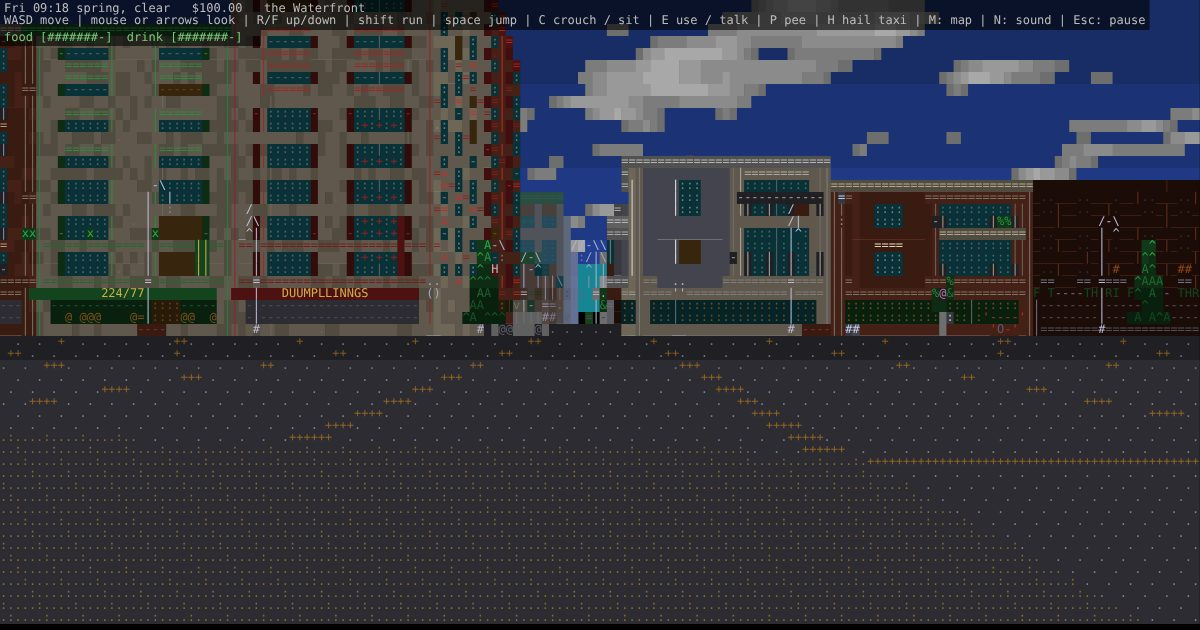
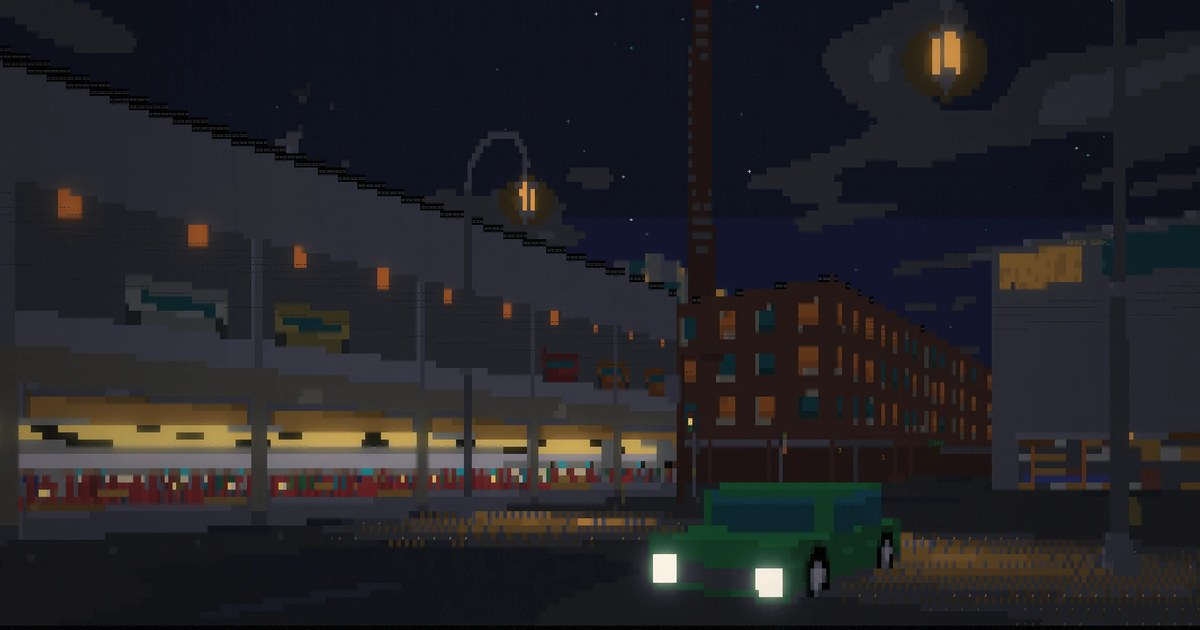
ASCII City: new link preview image and description

diff --git a/ascii-city.html b/ascii-city.html
@@ -13,19 +13,19 @@
   <link rel="icon" type="image/png" sizes="16x16" href="images/favicon-16x16.png">
   <link rel="manifest" href="ascii-city.webmanifest">
   <title>ASCII City</title>
-  <meta name="description" content="A whole city drawn in text characters. Wander the streets, take courier jobs, drive taxis and get lost.">
+  <meta name="description" content="A 3D city drawn entirely in ASCII. Ride the train, drive at night, skate, fish, run courier jobs or just wander. Friends can join.">
   <meta property="og:type" content="website">
   <meta property="og:site_name" content="Eve Net">
   <meta property="og:title" content="ASCII City">
-  <meta property="og:description" content="A whole city drawn in text characters. Wander the streets, take courier jobs, drive taxis and get lost.">
+  <meta property="og:description" content="A 3D city drawn entirely in ASCII. Ride the train, drive at night, skate, fish, run courier jobs or just wander. Friends can join.">
   <meta property="og:url" content="https://evenet.fun/ascii-city">
-  <meta property="og:image" content="https://evenet.fun/images/previews/ascii-city.jpg">
+  <meta property="og:image" content="https://evenet.fun/images/previews/ascii-city.jpg?v=2">
   <meta property="og:image:width" content="1200">
   <meta property="og:image:height" content="630">
   <meta name="twitter:card" content="summary_large_image">
   <meta name="twitter:title" content="ASCII City">
-  <meta name="twitter:description" content="A whole city drawn in text characters. Wander the streets, take courier jobs, drive taxis and get lost.">
-  <meta name="twitter:image" content="https://evenet.fun/images/previews/ascii-city.jpg">
+  <meta name="twitter:description" content="A 3D city drawn entirely in ASCII. Ride the train, drive at night, skate, fish, run courier jobs or just wander. Friends can join.">
+  <meta name="twitter:image" content="https://evenet.fun/images/previews/ascii-city.jpg?v=2">
   <style>
     * { margin: 0; padding: 0; box-sizing: border-box; }
     body { margin: 0; overflow: hidden; background: #000; }
